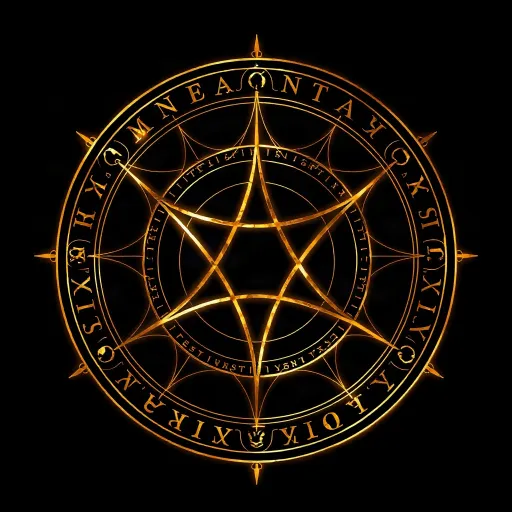
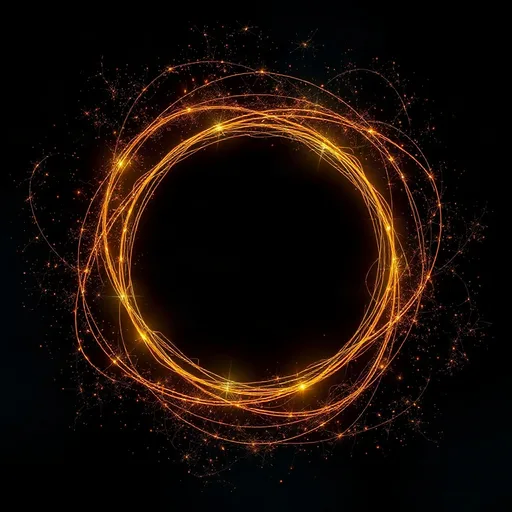
AI hand guide, regenerated wispy sigils, multilayer Strange seals with space rip, reactive grain field

diff --git a/src/DrawSurface.tsx b/src/DrawSurface.tsx
@@ -3,7 +3,7 @@ import type { Stroke } from './music'
 import { getPen } from './pens'
 import { playExplosion } from './audio'
 import { getStrokeTexture } from './textures'
-import { SIGIL_GOLD, SIGIL_JADE, sigilFor } from './sigils'
+import { SIGIL_GLYPHS, SIGIL_GOLD, SIGIL_JADE, SIGIL_PALE, sigilFor } from './sigils'
 
 export interface DrawPoint {
   x: number
@@ -554,6 +554,34 @@ export default function DrawSurface({
           gg.globalAlpha = 0.1 + f2 * 0.3
           gg.fillRect(gx, gy, 1, 1 + f1 * 2)
         }
+        // the field answers the hands: cursors and live stroke tips pour
+        // energy into the feedback buffer, so light bleeds and smears
+        // outward from wherever you are working
+        const sources: { x: number; y: number; a: number; c: string }[] = []
+        for (const c of cursors.current) {
+          if (c.kind === 'thumb') continue
+          sources.push({
+            x: c.x,
+            y: c.y,
+            a: c.active ? 0.28 : 0.08 + (c.strength ?? 0) * 0.1,
+            c: (c.id ?? 0) % 2 === 1 ? '#2e4a3c' : '#54401c',
+          })
+        }
+        for (const s of activeStrokes.current.values()) {
+          const p = s.points[s.points.length - 1]
+          if (p) sources.push({ x: p.x, y: p.y, a: 0.2, c: '#4a3a1a' })
+        }
+        for (const src of sources) {
+          const sx = src.x * gw
+          const sy = src.y * gh
+          const rr = gw * 0.14
+          const grad = gg.createRadialGradient(sx, sy, 0, sx, sy, rr)
+          grad.addColorStop(0, src.c)
+          grad.addColorStop(1, `${src.c}00`)
+          gg.globalAlpha = src.a
+          gg.fillStyle = grad
+          gg.fillRect(sx - rr, sy - rr, rr * 2, rr * 2)
+        }
       }
       // blit up, soft-blurred, additively — grain becomes breathing haze
       g.save()
@@ -750,6 +778,21 @@ export default function DrawSurface({
           d.vx += (dx / dist) * f
           d.vy += (dy / dist) * f
           disturbed = Math.max(disturbed, 1 - dist / DOT_PUSH_R)
+        }
+      }
+      // conjuring crushes space: dots inside a wide gravity well get
+      // dragged toward the rip instead of pushed away
+      for (const c of cursors.current) {
+        if (!c.active) continue
+        const dx = c.x * w - (hx + d.ox)
+        const dy = c.y * h - (hy + d.oy)
+        const dist = Math.hypot(dx, dy)
+        const GR = DOT_PUSH_R * 3
+        if (dist < GR && dist > 24) {
+          const f = (1 - dist / GR) ** 2 * 1.6
+          d.vx += (dx / dist) * f
+          d.vy += (dy / dist) * f
+          disturbed = Math.max(disturbed, (1 - dist / GR) * 0.8)
         }
       }
       // idle: wander on a smooth noise map that itself drifts over time
@@ -1409,25 +1452,42 @@ export default function DrawSurface({
         g.arc(cx, cy, r + 26 * (1 - s), 0, Math.PI * 2)
         g.stroke()
       } else {
-        // lit: a conjuring seal cast around the hand — each material has
-        // its own generated magic-circle artwork (gold arcane hexagram /
-        // jade bagua), rotating at true hand scale, additive so the black
-        // ground of the artwork vanishes into the room
+        // lit: a multilayer conjuring seal — independent strata spinning
+        // at their own speeds and depths, Strange-style, over a rip in
+        // space where the pinch crushes the fabric of the room
         const R = Math.min(
           Math.min(w, h) * 0.15,
           Math.max(r + 14, (c.size ?? 0.12) * Math.min(w, h) * 0.55),
         )
-        const spin = now / 2400
+        const breathe = 1 + 0.04 * Math.sin(now / 480 + (c.id ?? 0))
         const jade = (c.id ?? 1000) % 2 === 1
-        const img = sigilFor(jade ? SIGIL_JADE : SIGIL_GOLD)
-        if (img) {
+        const outer = sigilFor(jade ? SIGIL_JADE : SIGIL_GOLD)
+        const glyphs = sigilFor(SIGIL_GLYPHS)
+        const disc = sigilFor(SIGIL_PALE)
+        // depth 0: a soft bloom of light welling up beneath the seal
+        softMote(g, cx, cy, R * 1.5, c.color, 0.16, 0.08)
+        const layer = (
+          img: HTMLImageElement | null,
+          scale: number,
+          rot: number,
+          alpha: number,
+        ) => {
+          if (!img) return
+          const LR = R * scale * breathe
           g.save()
           g.translate(cx, cy)
-          g.rotate(jade ? -spin * 0.8 : spin)
-          g.globalAlpha = 0.85
-          g.drawImage(img, -R, -R, R * 2, R * 2)
+          g.rotate(rot)
+          g.globalAlpha = alpha
+          g.drawImage(img, -LR, -LR, LR * 2, LR * 2)
           g.restore()
-        } else {
+        }
+        // depth 1: the outer wispy energy ring, slow
+        layer(outer, 1, (jade ? -1 : 1) * (now / 2600), 0.9)
+        // depth 2: counter-rotating ring of arcane script
+        layer(glyphs, 0.64, (jade ? 1 : -1) * (now / 1500), 0.55)
+        // depth 3: a small pale disc whirling fast at the palm
+        layer(disc, 0.32, now / 600, 0.65)
+        if (!outer) {
           g.strokeStyle = c.color
           g.shadowColor = c.color
           g.shadowBlur = 14
@@ -1438,13 +1498,45 @@ export default function DrawSurface({
           g.stroke()
           g.shadowBlur = 0
         }
-        // a bright halo ring hugging the seal's rim
-        g.globalAlpha = 0.4
-        g.strokeStyle = c.color
-        g.lineWidth = 1.2
+        // the rip: a jagged luminous fissure torn through the seal's
+        // heart, its teeth trembling as the pinch crushes space
+        const seed = (c.id ?? 0) * 13.7
+        const ripA = seed % Math.PI
+        const ripL = R * 0.85
+        const teeth = 7
+        g.save()
+        g.rotate(0)
         g.beginPath()
-        g.arc(cx, cy, R * 1.02, 0, Math.PI * 2)
+        for (let i = 0; i <= teeth; i++) {
+          const f = i / teeth - 0.5
+          const wob =
+            Math.sin(i * 2.7 + seed) * 0.16 + Math.sin(now / 130 + i * 1.9) * 0.05
+          const rx = cx + Math.cos(ripA) * f * ripL * 2 - Math.sin(ripA) * wob * R
+          const ry = cy + Math.sin(ripA) * f * ripL * 2 + Math.cos(ripA) * wob * R
+          if (i === 0) g.moveTo(rx, ry)
+          else g.lineTo(rx, ry)
+        }
+        g.strokeStyle = '#fffaf0'
+        g.shadowColor = c.color
+        g.shadowBlur = 18
+        g.lineWidth = 1.6 + 0.8 * Math.sin(now / 90)
+        g.globalAlpha = 0.85
         g.stroke()
+        g.shadowBlur = 0
+        g.restore()
+        // orbiting spark trails circling between the strata
+        for (let i = 0; i < 3; i++) {
+          const oa = now / (700 + i * 260) + (i * Math.PI * 2) / 3 + seed
+          const orr = R * (0.45 + i * 0.24)
+          softMote(
+            g,
+            cx + Math.cos(oa) * orr,
+            cy + Math.sin(oa) * orr,
+            3.5,
+            i === 1 ? '#fffaf0' : c.color,
+            0.7,
+          )
+        }
       }
     }
 

diff --git a/src/HandLayer.tsx b/src/HandLayer.tsx
@@ -11,7 +11,7 @@ import type {
 } from './DrawSurface'
 import { getPen } from './pens'
 import { setSummon, stopSummon, summonComplete } from './audio'
-import { SIGIL_MOON, sigilFor } from './sigils'
+import { HAND_GUIDE, SIGIL_PALE, sigilFor } from './sigils'
 
 const WASM_BASE =
   'https://cdn.jsdelivr.net/npm/@mediapipe/tasks-vision@1.0.1/wasm'
@@ -197,24 +197,33 @@ export default function HandLayer({ surface }: Props) {
         const breathe = 0.8 + 0.2 * Math.sin(now / 600)
         g.save()
         g.globalCompositeOperation = 'lighter'
-        // the celestial summoning circle turns slowly beneath the guide
-        const moon = sigilFor(SIGIL_MOON)
-        if (moon) {
+        // a pale-gold summoning circle turns slowly beneath the guide
+        const seal = sigilFor(SIGIL_PALE)
+        if (seal) {
           const SR = s * 2.5
           g.save()
           g.translate(cx, cy)
           g.rotate(now / 14000)
           g.globalAlpha = (0.22 + p * 0.5) * breathe
-          g.drawImage(moon, -SR, -SR, SR * 2, SR * 2)
+          g.drawImage(seal, -SR, -SR, SR * 2, SR * 2)
           g.restore()
         }
-        g.strokeStyle = '#e8c47a'
-        g.shadowColor = '#e8c47a'
-        g.shadowBlur = 16
-        g.lineWidth = 2
-        g.globalAlpha = (0.35 + p * 0.55) * breathe
-        traceHandGuide(g, cx, cy, s)
-        g.stroke()
+        // the guide itself: a real hand rimmed in candlelight (generated
+        // artwork, additive so its black ground melts into the room)
+        const handImg = sigilFor(HAND_GUIDE)
+        if (handImg) {
+          const HR = s * 2.3
+          g.globalAlpha = (0.5 + p * 0.5) * breathe
+          g.drawImage(handImg, cx - HR, cy - HR * 1.08, HR * 2, HR * 2)
+        } else {
+          g.strokeStyle = '#e8c47a'
+          g.shadowColor = '#e8c47a'
+          g.shadowBlur = 16
+          g.lineWidth = 2
+          g.globalAlpha = (0.35 + p * 0.55) * breathe
+          traceHandGuide(g, cx, cy, s)
+          g.stroke()
+        }
         // outer ring + filling progress arc
         const R = s * 2.1
         g.globalAlpha = 0.3 * breathe
@@ -261,29 +270,66 @@ export default function HandLayer({ surface }: Props) {
         const s = hands.get(hand)
         g.save()
         g.globalCompositeOperation = 'lighter'
-        // glowing filament skeleton: the user's actual hand, made of light
-        g.strokeStyle = pen.color
-        g.shadowColor = pen.color
-        g.shadowBlur = 12
-        g.lineWidth = 2.2
+        const dim = ritual.done ? 0.55 : 0.9
+        // a pool of light cradling the palm, so the hand feels lit from
+        // within rather than wireframed
+        const palmR = Math.hypot(px(WRIST) - ax, py(WRIST) - ay) * 1.5 || 60
+        const pg = g.createRadialGradient(ax, ay, 0, ax, ay, palmR)
+        pg.addColorStop(0, `${pen.color}55`)
+        pg.addColorStop(1, `${pen.color}00`)
+        g.globalAlpha = dim
+        g.fillStyle = pg
+        g.beginPath()
+        g.arc(ax, ay, palmR, 0, Math.PI * 2)
+        g.fill()
+        // filament skeleton drawn as tapering candle-lit strokes: thick
+        // and warm at the palm, thinning to bright hairlines at the tips
         g.lineCap = 'round'
-        g.globalAlpha = ritual.done ? 0.5 : 0.85
+        g.shadowColor = pen.color
         for (const chain of BONES) {
-          g.beginPath()
-          g.moveTo(px(chain[0]), py(chain[0]))
-          for (let i = 1; i < chain.length; i++)
+          for (let i = 1; i < chain.length; i++) {
+            const f = i / (chain.length - 1)
+            g.strokeStyle = pen.color
+            g.shadowBlur = 10 - f * 5
+            g.lineWidth = 4.2 - f * 3
+            g.globalAlpha = (0.35 + 0.4 * (1 - f)) * dim
+            g.beginPath()
+            g.moveTo(px(chain[i - 1]), py(chain[i - 1]))
             g.lineTo(px(chain[i]), py(chain[i]))
-          g.stroke()
+            g.stroke()
+            // a bright hairline core over the soft stroke
+            g.strokeStyle = '#fff6e0'
+            g.shadowBlur = 0
+            g.lineWidth = 0.8
+            g.globalAlpha = 0.5 * dim
+            g.beginPath()
+            g.moveTo(px(chain[i - 1]), py(chain[i - 1]))
+            g.lineTo(px(chain[i]), py(chain[i]))
+            g.stroke()
+          }
         }
-        // joints as small motes, finger tips brighter
-        g.shadowBlur = 0
+        // fingertips carry candle flames; other joints only faint motes
         for (let i = 0; i < lm.length; i++) {
           const tipish = i === THUMB_TIP || i === INDEX_TIP
-          g.globalAlpha = (tipish ? 0.9 : 0.4) * (ritual.done ? 0.8 : 1)
-          g.fillStyle = tipish ? '#fff6e0' : pen.color
-          g.beginPath()
-          g.arc(px(i), py(i), tipish ? 4 : 2.4, 0, Math.PI * 2)
-          g.fill()
+          if (tipish) {
+            const flick = 0.85 + 0.15 * Math.sin(now / 90 + i * 3.1)
+            const fr = 7 * flick
+            const fg = g.createRadialGradient(px(i), py(i), 0, px(i), py(i), fr * 2.4)
+            fg.addColorStop(0, '#fff6e0')
+            fg.addColorStop(0.35, pen.color)
+            fg.addColorStop(1, `${pen.color}00`)
+            g.globalAlpha = 0.9 * dim
+            g.fillStyle = fg
+            g.beginPath()
+            g.arc(px(i), py(i), fr * 2.4, 0, Math.PI * 2)
+            g.fill()
+          } else {
+            g.globalAlpha = 0.3 * dim
+            g.fillStyle = pen.color
+            g.beginPath()
+            g.arc(px(i), py(i), 2, 0, Math.PI * 2)
+            g.fill()
+          }
         }
         g.restore()
 

diff --git a/src/sigils.ts b/src/sigils.ts
@@ -1,15 +1,19 @@
-// FAL-generated magic circle artwork (flux/schnell), shipped as assets.
+// FAL-generated magic artwork (flux/schnell), shipped as assets.
 // Painted on black so they can be composited additively ('lighter') —
-// the black vanishes and only the glowing linework remains.
+// the black vanishes and only the glowing energy remains.
 import goldUrl from './assets/sigil_gold.webp'
 import jadeUrl from './assets/sigil_jade.webp'
-import moonUrl from './assets/sigil_moon.webp'
+import paleUrl from './assets/sigil_pale.webp'
+import glyphsUrl from './assets/sigil_glyphs.webp'
+import handUrl from './assets/hand_guide.webp'
 
 export const SIGIL_GOLD = 0
 export const SIGIL_JADE = 1
-export const SIGIL_MOON = 2
+export const SIGIL_PALE = 2
+export const SIGIL_GLYPHS = 3
+export const HAND_GUIDE = 4
 
-const images = [goldUrl, jadeUrl, moonUrl].map((url) => {
+const images = [goldUrl, jadeUrl, paleUrl, glyphsUrl, handUrl].map((url) => {
   const img = new Image()
   img.src = url
   return img
